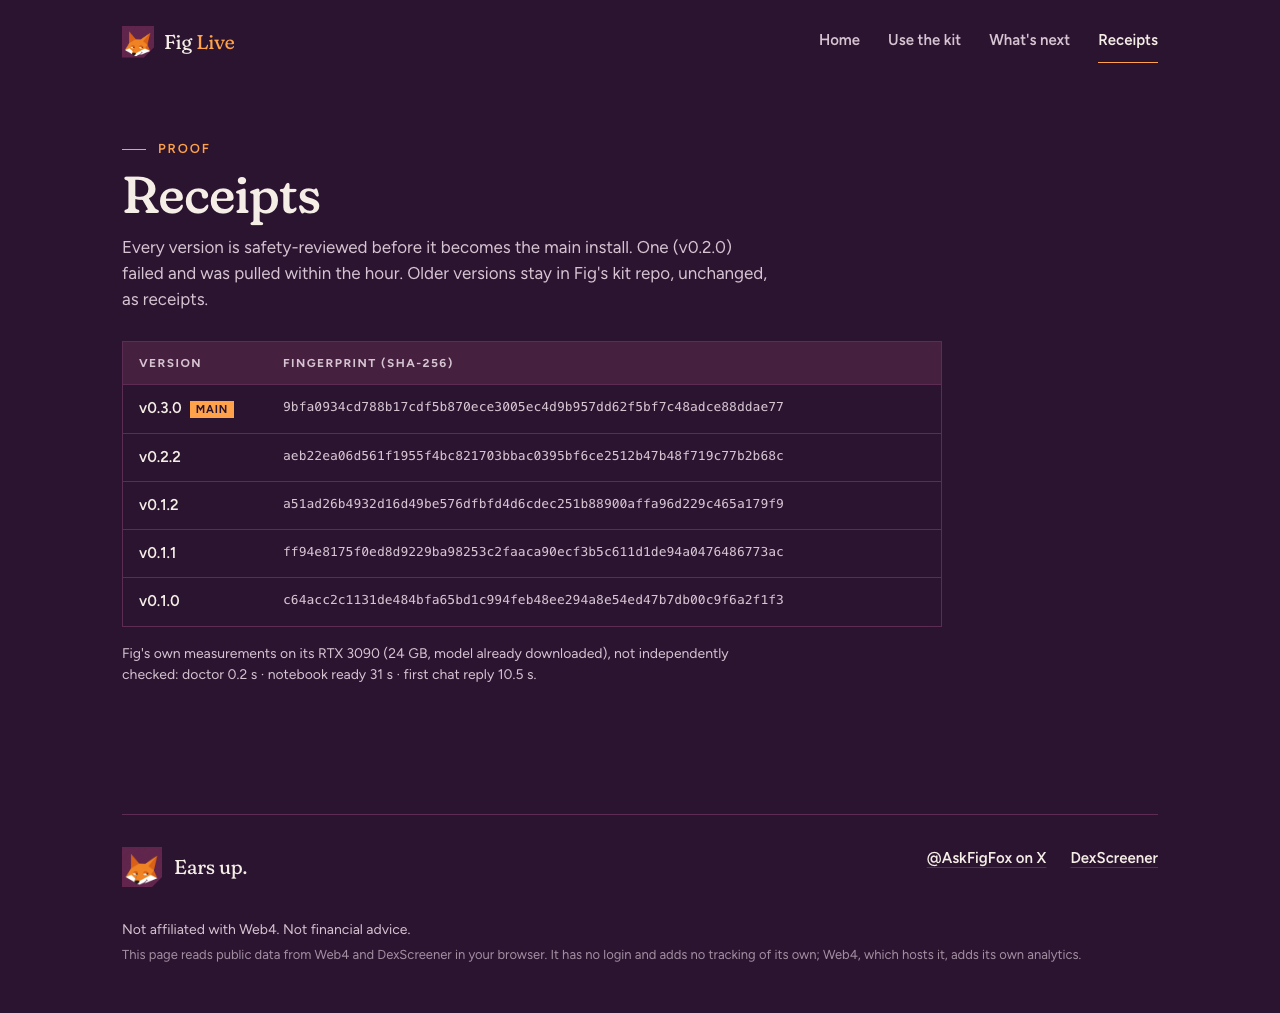
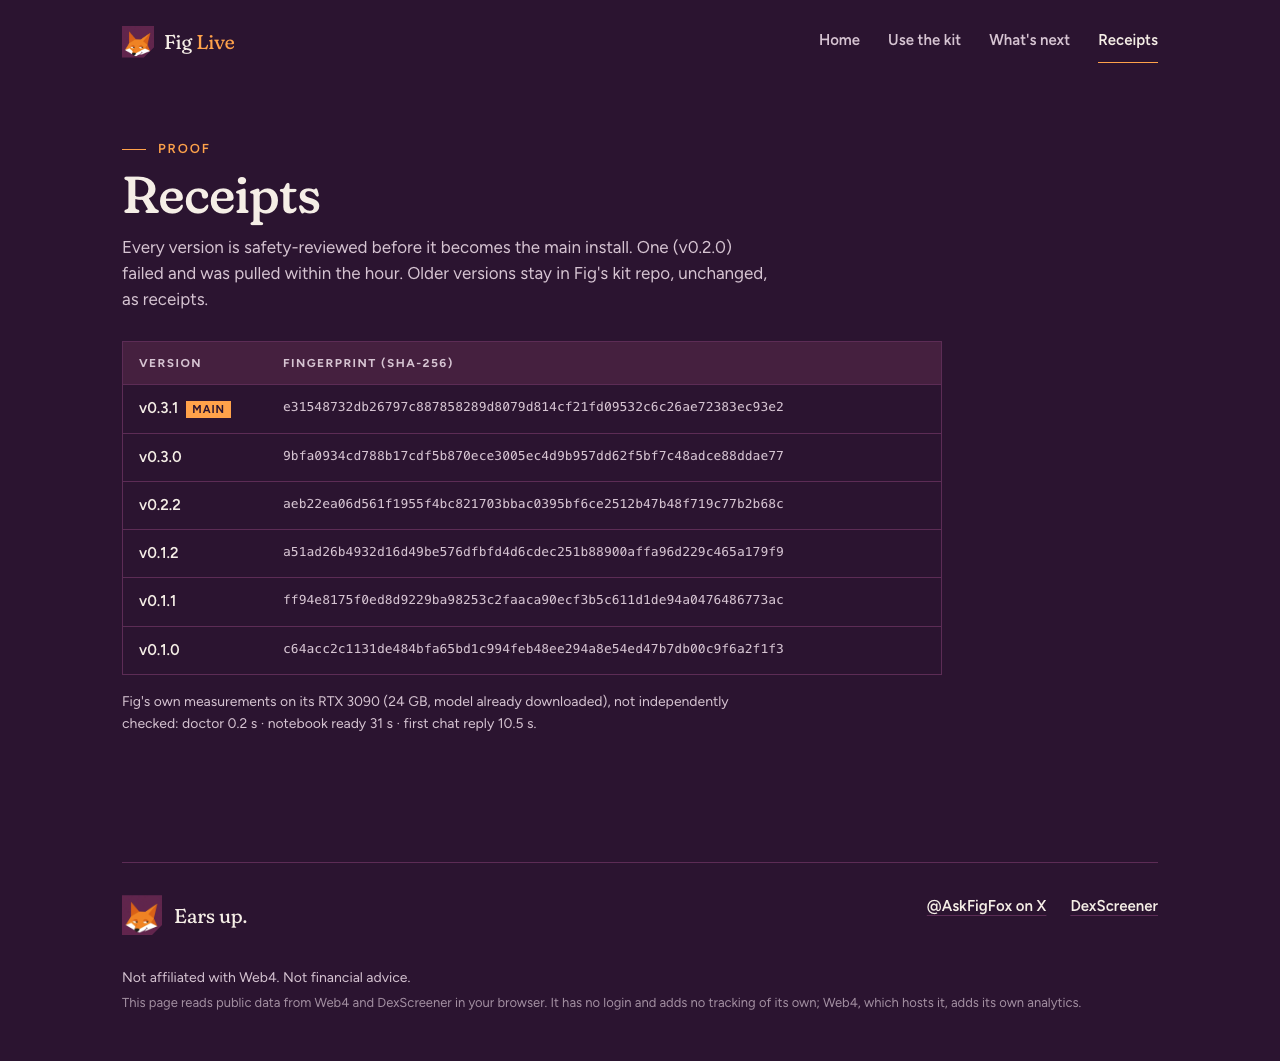
Kit v0.3.1 as the main install; chat card says it asks before installing Ollama

diff --git a/src/content/kit.ts b/src/content/kit.ts
@@ -5,7 +5,7 @@
 
 // Note the two spaces between the hash and the file name: `sha256sum -c` needs them.
 export const INSTALL_LINE =
-  'mkdir -p ~/.local/bin && curl -fsSL https://raw.githubusercontent.com/fig-the-fox/fig-kit/b2b5145a6d009d702efabb3e6d3289875ebe33c2/fig-v0.3.0.sh -o /tmp/fig.sh && echo "9bfa0934cd788b17cdf5b870ece3005ec4d9b957dd62f5bf7c48adce88ddae77  /tmp/fig.sh" | sha256sum -c && install -m 755 /tmp/fig.sh ~/.local/bin/fig && export PATH="$HOME/.local/bin:$PATH"';
+  'mkdir -p ~/.local/bin && curl -fsSL https://raw.githubusercontent.com/fig-the-fox/fig-kit/fb44aac672b0d10844e37192f8cc1e34446e8c66/fig-v0.3.1.sh -o /tmp/fig.sh && echo "e31548732db26797c887858289d8079d814cf21fd09532c6c26ae72383ec93e2  /tmp/fig.sh" | sha256sum -c && install -m 755 /tmp/fig.sh ~/.local/bin/fig && export PATH="$HOME/.local/bin:$PATH"';
 
 export const INSTALL_NOTE = "It checks the file's fingerprint before installing anything. No sudo. If the check fails, nothing is installed.";
 
@@ -22,7 +22,7 @@ export const KIT_STEPS: Array<{ title: string; commands: KitCommand[] }> = [
       {
         command: "fig start chat",
         body: [
-          "Installs Ollama (its official installer) and downloads an open AI model sized to your GPU. It runs only on that machine, with an API at ",
+          "Asks first, then installs Ollama (its official installer) and downloads an open AI model sized to your GPU. It runs only on that machine, with an API at ",
           { code: "127.0.0.1:11434" },
           ". Then chat with ",
           { code: "ollama run llama3.1:8b" },
@@ -62,7 +62,8 @@ export const KIT_STEPS: Array<{ title: string; commands: KitCommand[] }> = [
 export const COMING_NEXT = ["Make images", "Transcribe audio", "Fine-tune a model"] as const;
 
 export const VERSIONS: Array<{ version: string; main?: boolean; sha256: string }> = [
[6 lines of base64/hex data omitted]
